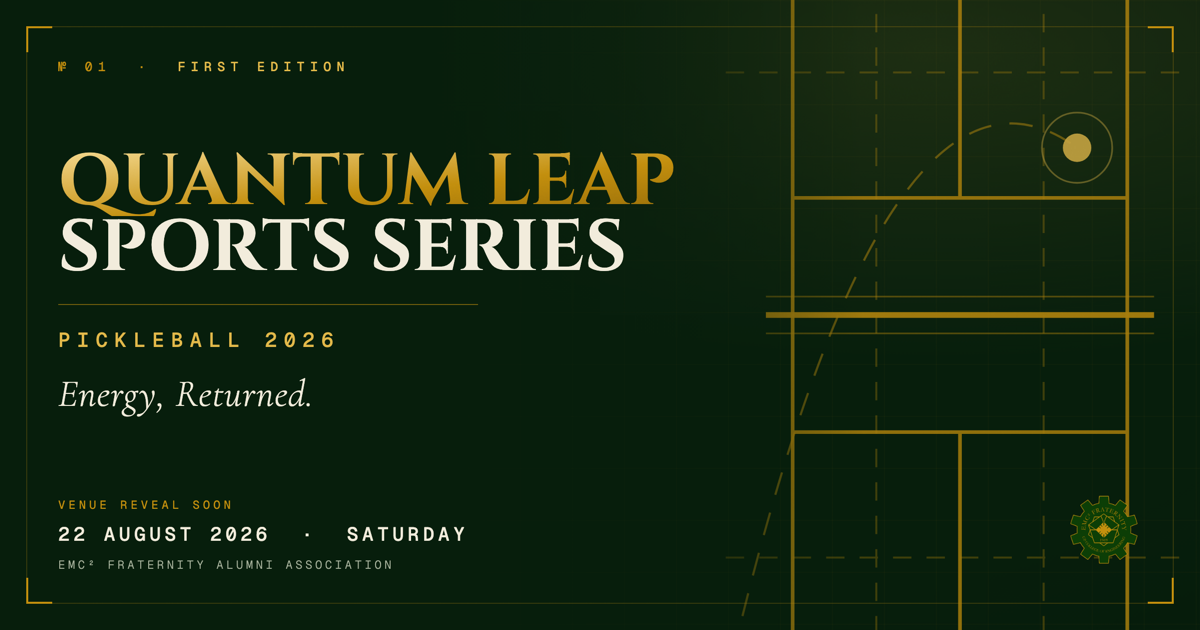
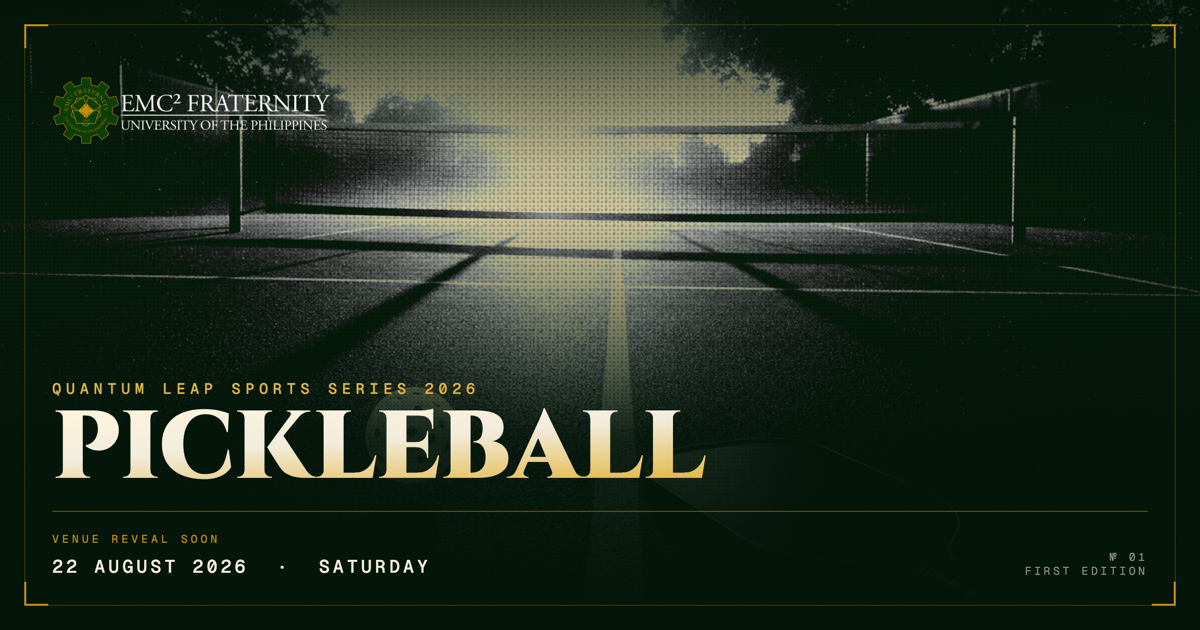
Swap Quantum Leap teaser art for the photo-led pickleball plates
Replace the typographic OG card and page poster with gpt-image-2 silhouette
plates run through the duotone + double halftone treatment: green shadows,
cream highlights, printed dot screen, 35mm grain. The sport name is now the
dominant reading and the official lockup sits upper-left on a clear field.

Silhouettes rather than faces on purpose: no identifiable person on a
public poster, no plasticky AI faces, and the crushed tonal range is what
lets the halftone read as print texture instead of noise.

diff --git a/app/quantum-leap/page.tsx b/app/quantum-leap/page.tsx
@@ -62,7 +62,7 @@ export default function QuantumLeapPage() {
               <div className="relative border border-[var(--hairline)]">
                 <Image
                   src="/quantum-leap/pickleball-2026-poster.png"
-                  alt="Quantum Leap Sports Series, Pickleball 2026. Energy, Returned. 22 August 2026, Saturday. Venue reveal soon."
+                  alt="A pickleball player silhouetted mid-serve at golden hour. Quantum Leap Sports Series 2026: Pickleball. 22 August 2026, Saturday. Venue reveal soon."
                   width={2160}
                   height={2700}
                   className="w-full"
